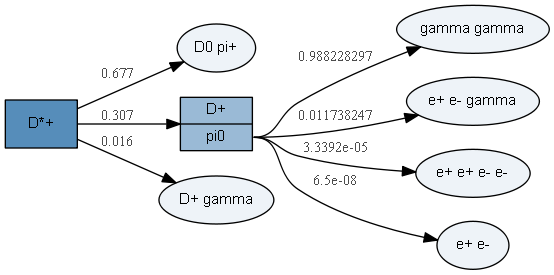
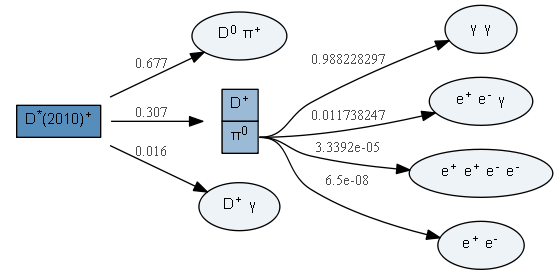
Decay chain DOT graphs display HTML particle names (#65)
* DecayChainViewer now displays HTML particle names

* Tests updated to changes in graph output

* (Annoying) fix for Python 2.7

* Update of example decay graph for README

diff --git a/decaylanguage/decay/viewer.py b/decaylanguage/decay/viewer.py
@@ -20,6 +20,9 @@ try:
 except ImportError:
     raise ImportError("You need pydot for this submodule. Please install pydot with for example 'pip install pydot'\n")
 
+from particle import Particle
+from particle import ParticleNotFound
+
 
 class GraphNotBuiltError(RuntimeError):
     pass
@@ -35,6 +38,7 @@ class DecayChainViewer(object):
     >>> dfp.parse()
     >>> chain = dfp.build_decay_chain('D*+')
     >>> dcv = DecayChainViewer(chain)
+    >>> dcv  # display the SVG figure in a notebook
     """
 
     __slots__ = ("_chain",
@@ -70,19 +74,36 @@ class DecayChainViewer(object):
         Recursively navigate the decay chain tree and produce a Graph
         in the DOT language.
         """
+        def safe_name(name):
+            try:
+                return Particle.from_dec(name).html_name
+            except ParticleNotFound:
+                return name
+
+        def html_table_label(names, add_tags=False, bgcolor='#9abad6'):
+            if add_tags:
+                label = '<<TABLE BORDER="0" CELLSPACING="0" BGCOLOR="{bgcolor}">'.format(bgcolor=bgcolor)
+            else:
+                label = '<<TABLE BORDER="0" CELLSPACING="0" CELLPADDING="0" BGCOLOR="{bgcolor}"><TR>'.format(bgcolor=bgcolor)
+            for i, n in enumerate(names):
+                if add_tags:
+                    label += '<TR><TD BORDER="1" CELLPADDING="5" PORT="p{tag}">{name}</TD></TR>'.format(tag=i, name=safe_name(n))
+                else:
+                    label += '<TD BORDER="0" CELLPADDING="2">{name}</TD>'.format(name=safe_name(n))
+            label += "{tr}</TABLE>>".format(tr='' if add_tags else '</TR>')
+            return label
 
         def new_node_no_subchain(list_parts):
-            label = ' '.join(['%s'%p for p in list_parts])
-            #label = ' '.join(['%s'%Particle.from_dec(p).html_name for p in list_parts])
+            label = html_table_label(list_parts, bgcolor='#eef3f8')
             r = 'dec%s' % counter()
-            self._graph.add_node(pydot.Node(r, label=label))
+            self._graph.add_node(pydot.Node(r, label=label, style='filled', fillcolor='#eef3f8'))
             return r
 
         def new_node_with_subchain(list_parts):
             list_parts = [list(p.keys())[0] if isinstance(p,dict) else p for p in list_parts]
-            label = ' | '.join(['<p%s> %s'%(i,n) for i, n in enumerate(list_parts)])
+            label = html_table_label(list_parts, add_tags=True)
             r = 'dec%s' % counter()
-            self._graph.add_node(pydot.Node(r, shape='record', label=label, fillcolor="#9abad6"))
+            self._graph.add_node(pydot.Node(r, shape='none', label=label))
             return r
 
         def iterate_chain(subchain, top_node=None, link_pos=None):
@@ -109,14 +130,11 @@ class DecayChainViewer(object):
                             _k = list(_p.keys())[0]
                             iterate_chain(_p[_k], top_node=_ref_1, link_pos=i)
 
-        # Effectively do a reset and produce a new graph
-        #self._graph = self._instantiate_graph()
-
         has_subdecay = lambda ds: not all([isinstance(p,str) for p in ds])
 
         k = list(self._chain.keys())[0]
-
-        node_mother = pydot.Node("mother", style="filled", fillcolor="#568dba", shape='box', label=str(k))
+        label = html_table_label([k], add_tags=True, bgcolor='#568dba')
+        node_mother = pydot.Node("mother",  shape='none', label=label)
         self._graph.add_node(node_mother)
         sc = self._chain[k]
 
@@ -182,8 +200,7 @@ class DecayChainViewer(object):
                     rankdir='LR')
 
     def _get_node_defaults(self):
-        return dict(style='filled', fillcolor='#eef3f8',
-                    fontname='Helvetica', fontsize=11)
+        return dict(fontname='Helvetica', fontsize=11, shape='oval')
 
     def _get_edge_defaults(self):
         return dict(fontcolor='#4c4c4c', fontsize=11)

diff --git a/tests/decay/test_viewer.py b/tests/decay/test_viewer.py
@@ -28,9 +28,9 @@ def test_single_decay():
     dcv = DecayChainViewer(chain)
     graph_output_as_dot = dcv.to_string()
 
-    assert 'dec0 [label="D0 pi+"];' in graph_output_as_dot
-    assert 'dec1 [label="D+ pi0"];' in graph_output_as_dot
-    assert 'dec2 [label="D+ gamma"];' in graph_output_as_dot
+    assert 'mother -> dec0  [label="0.677"]' in graph_output_as_dot
+    assert 'mother -> dec1  [label="0.307"]' in graph_output_as_dot
+    assert 'mother -> dec2  [label="0.016"]' in graph_output_as_dot
 
 
 def test_simple_decay_chain():
@@ -41,11 +41,11 @@ def test_simple_decay_chain():
     dcv = DecayChainViewer(chain)
     graph_output_as_dot = dcv.to_string()
 
-    assert 'label="<p0> D0 | <p1> pi+"' in graph_output_as_dot
-    assert 'label="<p0> D+ | <p1> pi0"' in graph_output_as_dot
-    assert 'label="<p0> K- | <p1> pi+ | <p2> pi+ | <p3> pi0"' in graph_output_as_dot
-    assert 'label="<p0> D+ | <p1> gamma"' in graph_output_as_dot
-    assert 'label="<p0> K- | <p1> pi+ | <p2> pi+ | <p3> pi0"' in graph_output_as_dot
+    assert 'mother -> dec3  [label="0.677"]' in graph_output_as_dot
+    assert 'dec3:p0 -> dec4  [label="1.0"]' in graph_output_as_dot
+    assert 'mother -> dec5  [label="0.307"]' in graph_output_as_dot
+    assert 'dec5:p0 -> dec6  [label="1.0"]' in graph_output_as_dot
+    assert 'dec6:p3 -> dec7  [label="0.988228297"]' in graph_output_as_dot
 
 
 checklist_decfiles = (

diff --git a/decaylanguage/dec/dec.py b/decaylanguage/dec/dec.py
@@ -903,7 +903,7 @@ def get_final_state_particle_names(decay_mode):
 
     fsps = get_final_state_particles(decay_mode)
     # list of final-state particle names
-    return [fsp.children[0].value for fsp in fsps]
+    return [str(fsp.children[0].value) for fsp in fsps]
 
 
 def get_model_name(decay_mode):
@@ -927,7 +927,7 @@ def get_model_name(decay_mode):
         raise RuntimeError("Input not an instance of a 'decayline' Tree!")
 
     lm = list(decay_mode.find_data('model'))
-    return lm[0].children[0].value
+    return str(lm[0].children[0].value)
 
 
 def get_model_parameters(decay_mode):
